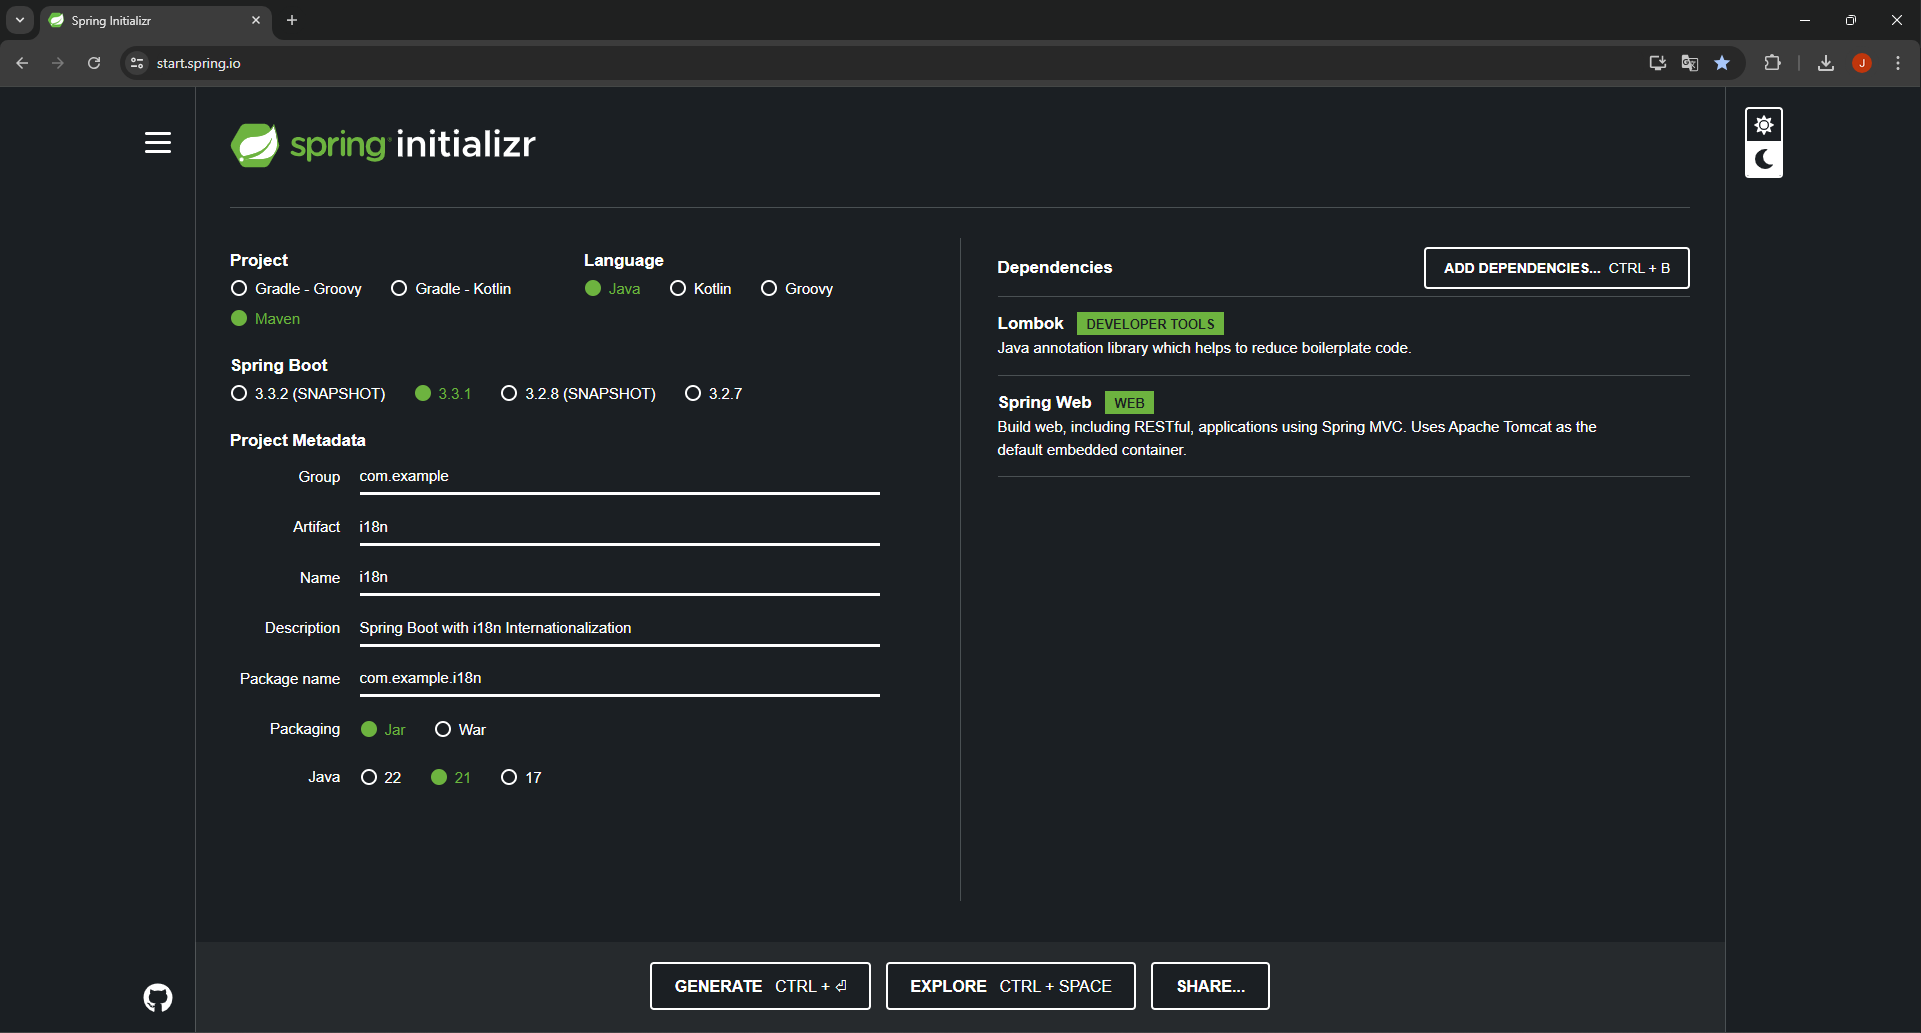
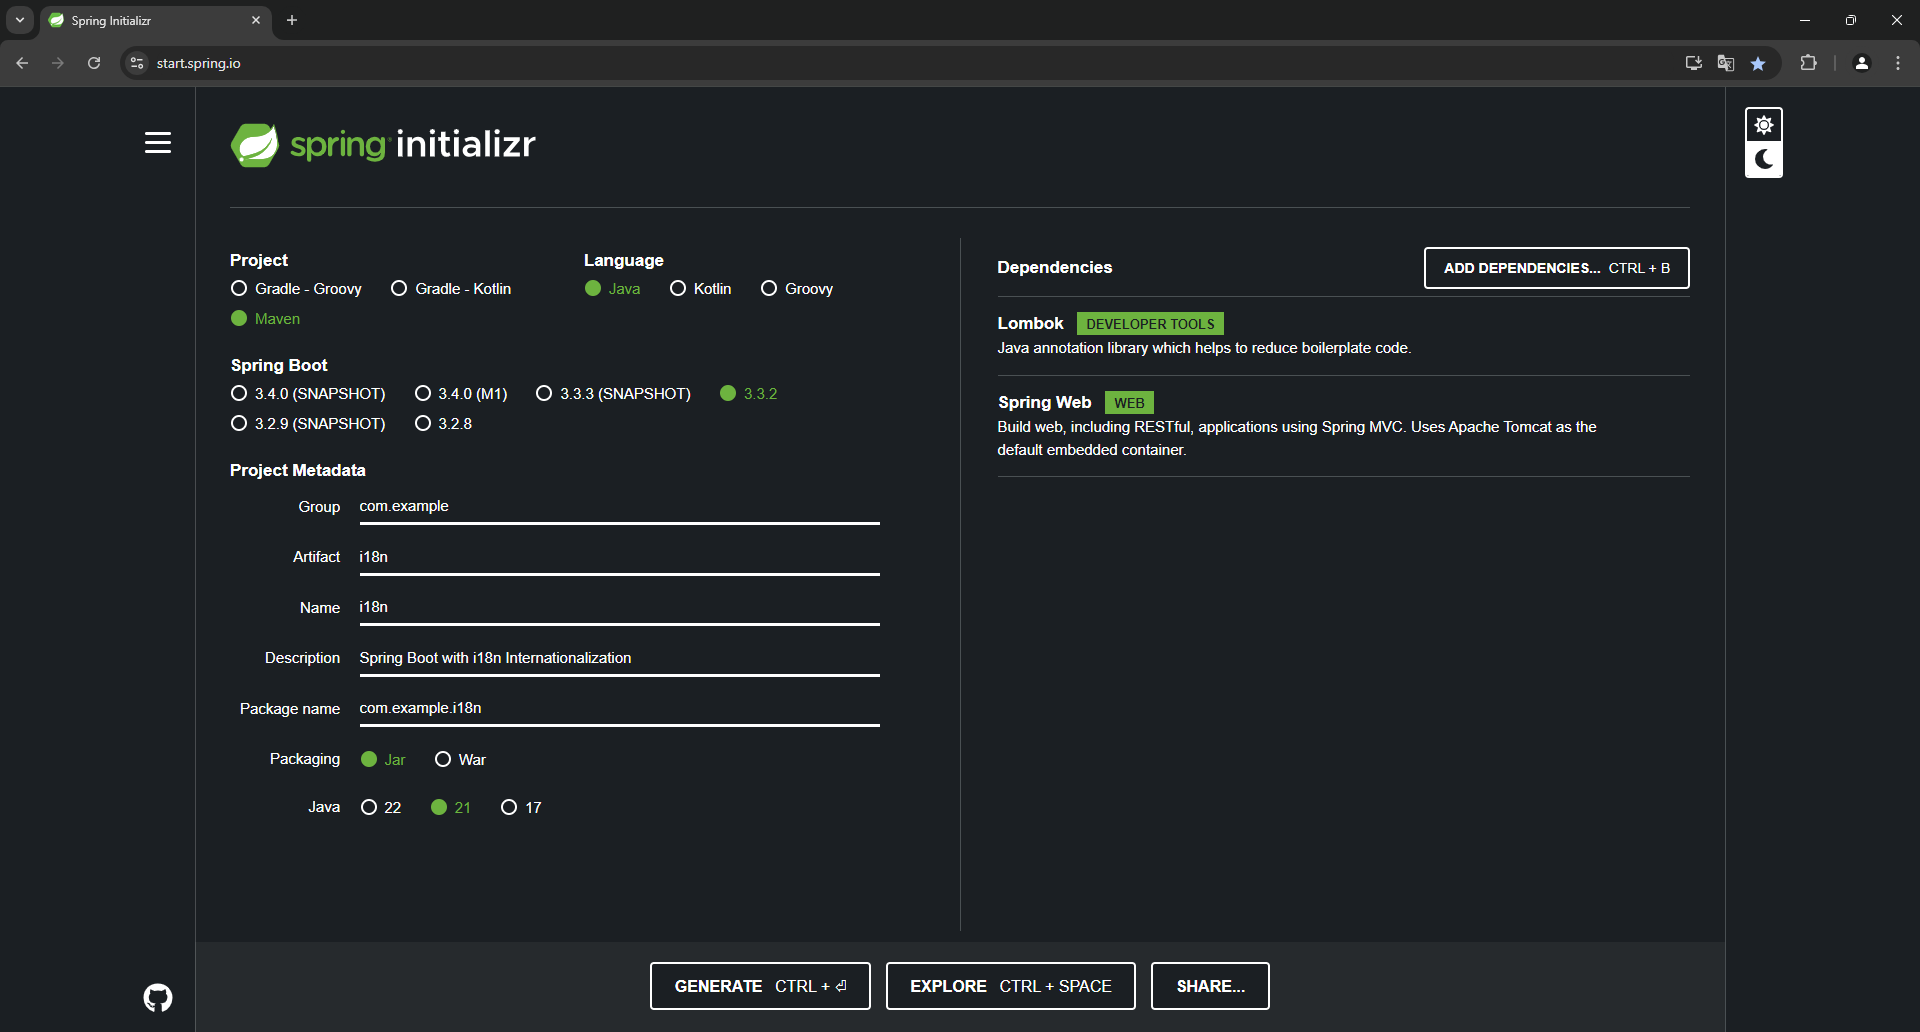
Update README.md

diff --git a/README.md b/README.md
@@ -5,9 +5,9 @@ This is where Internationalization (i18n) plays a pivotal role.
 
 <b>Author:</b> <a href="https://github.com/spring-boot-react-nextjs" target="_blank">spring-boot-react-nextjs</a><br>
 <b>Created:</b> 2024-07-04<br>
-<b>Last updated:</b> 2024-07-04
+<b>Last updated:</b> 2024-08-04
 
-[![](https://img.shields.io/badge/Spring%20Boot-8A2BE2)]() [![](https://img.shields.io/badge/release-Jun%2020,%202024-blue)]() [![](https://img.shields.io/badge/version-3.3.1-blue)]()
+[![](https://img.shields.io/badge/Spring%20Boot-8A2BE2)]() [![](https://img.shields.io/badge/release-Jul%2018,%202024-blue)]() [![](https://img.shields.io/badge/version-3.3.2-blue)]()
 
 ## 1. Why Internationalization Matters?
 
